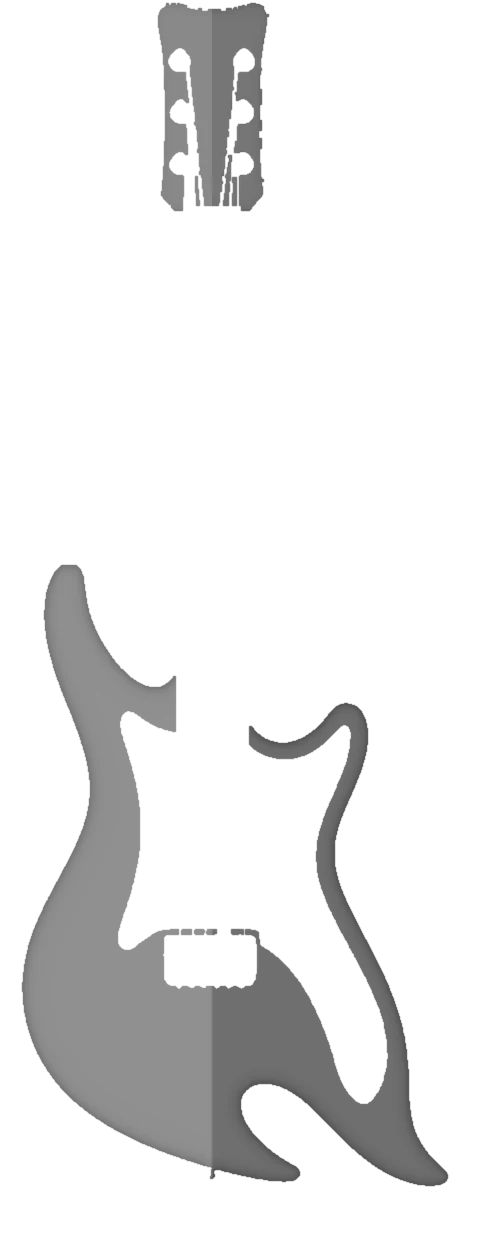
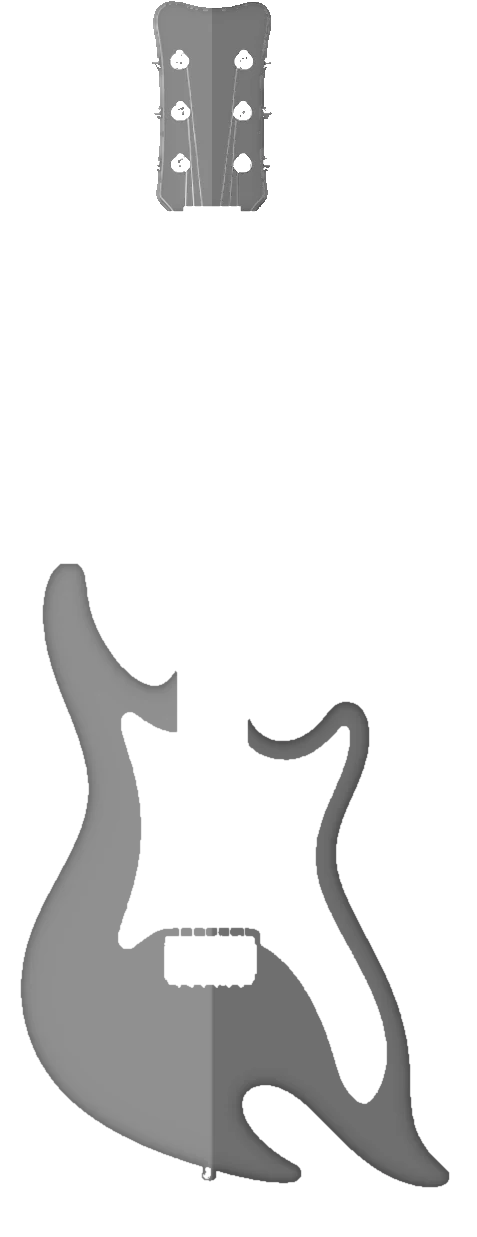
Comet builder layers: paint reaches the body between the guard and the bridge, smooth guard outline
The thin sliver of old red above the bridge and along the outline is now paint, the guard's right edge is
smoothed, and the head's string and outline edges take a new colour. Comet's road, body and small pictures are
unchanged: the red above the bridge there is the body itself.

diff --git a/tools/guitars/lookA/builder.py b/tools/guitars/lookA/builder.py
@@ -102,6 +102,8 @@ def segment(slug):
     if c.get('paint_hue') == 'red':
         redh = (rgb[..., 0] > rgb[..., 1] + 45) & (rgb[..., 0] > rgb[..., 2] + 45)
         guard = clean(guard & ~redh, 1, 200, 200)
+        # a smooth guard outline: the mask blurred and cut at half, so the edge has no steps
+        guard = cv2.GaussianBlur(guard.astype(np.float32), (0, 0), 1.6) > 0.5
     if c.get('paint_all'):
         S0 = paint.copy()
         # one colour over the whole face: everything inside the outline line that is not guard, metal or board
@@ -110,6 +112,16 @@ def segment(slug):
         if c.get('paint_hue') == 'red': paint &= ((rgb[..., 0] > rgb[..., 1] + 45) & (rgb[..., 0] > rgb[..., 2] + 45)) | (dist < 4)
         if c.get('paint_hue') == 'blue': paint &= ((rgb[..., 2] > rgb[..., 0] + 12) & (rgb[..., 2] >= rgb[..., 1])) | (dist < 4) | S0
         paint = clean(paint, 1, 60, 300) & ~guard
+        if c.get('paint_hue') == 'red':
+            # darker red next to the paint (the body seen between the guard and the bridge) is paint too
+            near = ((rgb[..., 0] > rgb[..., 1] + 25) & (rgb[..., 0] > rgb[..., 2] + 25)) & fa & ~guard & ~metal & ~board
+            near = near | (redh & fa & ~guard & ~metal & (M['board'] < 200))
+            if hpaint is not None and hpaint.any():
+                hpaint = hpaint | (head & ((rgb[..., 0] > rgb[..., 1] + 25) & (rgb[..., 0] > rgb[..., 2] + 25) & (sat > 0.72)) & ~ndi.binary_dilation(metal, iterations=1) & ~board)
+            lbn, nn = ndi.label(near | paint); grow = ndi.binary_dilation(paint, iterations=6)
+            keep = np.unique(lbn[grow & near]); paint = paint | (np.isin(lbn, keep[keep > 0]) & near)
+            # the soft outer edge pixels too, so no old red line is left round the outline
+            paint = paint | ((A > 0) & ~ndi.binary_erosion(A > 0, iterations=3) & ~ndi.binary_dilation(head, iterations=3) & ~board & ~guard & ~metal & (np.arange(H)[:, None] > np.where(body.any(1))[0].min() - 2))
     if c.get('rim_fill'):
         # the painted edge line is paint too, so a new colour reaches the outline
         paint = paint | (body & (dist <= c['rim_fill']) & ~ndi.binary_dilation(guard, iterations=2) & ~metal & ~board)
@@ -175,6 +187,13 @@ def layers(slug):
     v = cv2.GaussianBlur(v.astype(np.float32), (0, 0), 1.0)
     v = np.where(hpaint, 0.5 + np.where(xx < cx, 0.04, -0.04) - 0.08 * np.exp(-ndi.distance_transform_edt(S['head']) / 3.0), v)
     pa = feather(P_all, 0.6)
+    if c.get('head_mix'):
+        # head pixels that are part paint, part painted string or outline: paint them by how much paint they hold,
+        # so a new colour reaches the strings' and outline's soft edges and the string centres stay as they are
+        Pc = np.median(rgb[hpaint], axis=0); Sg = 222.0
+        m = np.clip((Sg - rgb[..., 1]) / max(Sg - Pc[1], 1), 0, 1) * ((rgb[..., 0] > rgb[..., 1] + 25) & (rgb[..., 0] > rgb[..., 2] + 20))
+        zone = ndi.binary_dilation(S['head'], iterations=3) & (S['A'] > 0) & ~ndi.binary_dilation(metal, iterations=1) & ~S['board']
+        pa = np.maximum(pa, np.where(zone, m, 0))
     grey = np.clip(v * 255, 0, 255)[..., None].repeat(3, 2)
     sizes['paint'] = save(rgba(grey, pa), f'{OUT}/{slug}/paint.webp')
     # ---- grain: faint fine detail only ----
